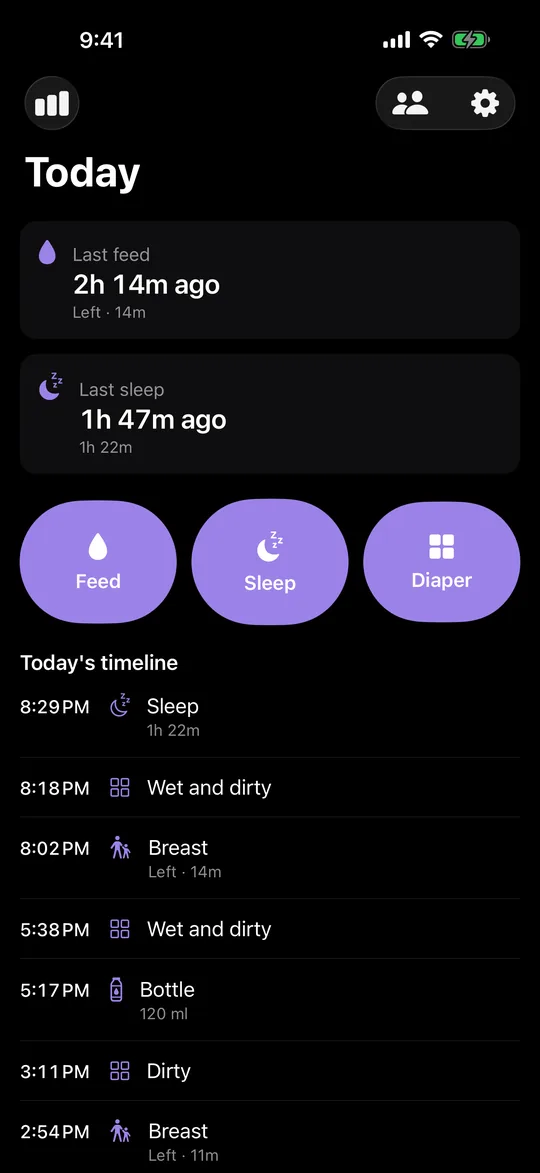
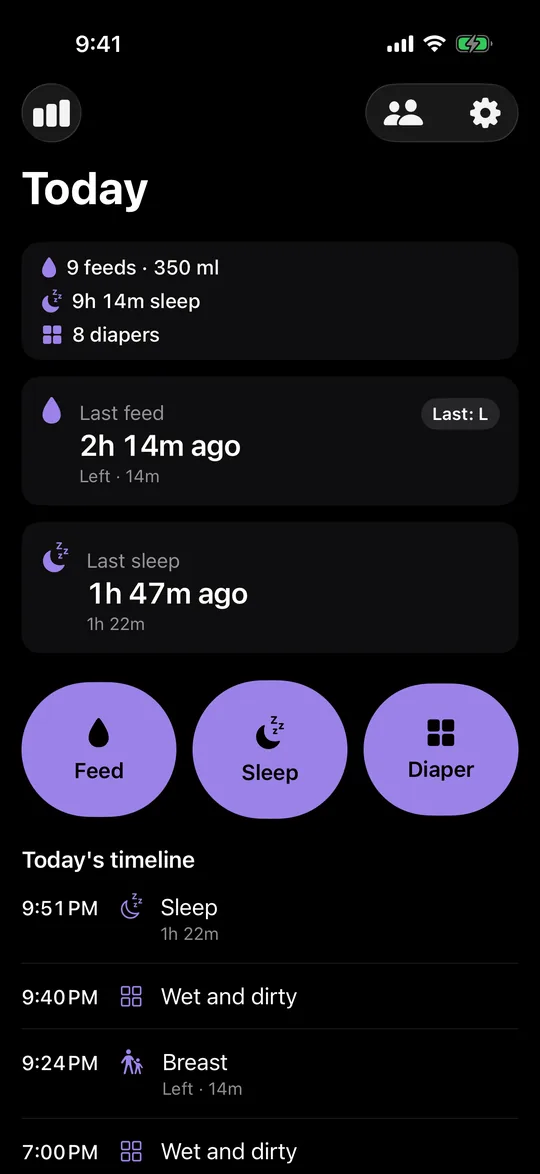
1.0.1: lock-screen timer row, today totals and last side, fresh home shots
Adds a feature row for the Live Activity timer with Stop (schematic CSS
card, labelled as an illustration — no lock-screen capture exists), notes
the today-totals strip, last-side badge, 5 ml steps, tap-to-type and the
5-second Undo in the existing rows, lists the lock-screen timer under Free,
and replaces the home screenshots with 1.0.1 captures. softwareVersion
1.0.1 in JSON-LD. Verified at 1280 and 390 px.

Claude-Session: https://claude.ai/code/session_01T6S6qebxYexNL2scS582CH

diff --git a/ko/index.html b/ko/index.html
@@ -52,11 +52,12 @@
       <li>오프라인 우선</li>
       <li>광고 없음</li>
       <li>회원가입 없음</li>
+      <li>잠금화면에서 정지</li>
       <li>공동양육자는 링크 하나로</li>
     </ul>
   </div>
   <div class="phone">
-    <img src="../assets/screens/ko/home.webp" srcset="../assets/screens/ko/home.webp 540w, ../assets/screens/ko/home@2x.webp 1080w" sizes="(max-width: 720px) 74vw, 272px" width="540" height="1173" fetchpriority="high" alt="밤 시간의 Lullog 오늘 화면. 마지막 수유 2시간 14분 전, 마지막 수면 카드, 수유·수면·기저귀 큰 버튼과 오늘의 타임라인이 보입니다">
+    <img src="../assets/screens/ko/home.webp" srcset="../assets/screens/ko/home.webp 540w, ../assets/screens/ko/home@2x.webp 1080w" sizes="(max-width: 720px) 74vw, 272px" width="540" height="1174" fetchpriority="high" alt="밤 시간의 Lullog 오늘 화면. 수유 9회·350 ml, 수면 9시간 14분, 기저귀 8회 오늘 합계와 왼쪽으로 먹인 마지막 수유 2시간 14분 전, 마지막 수면 카드, 수유·수면·기저귀 큰 버튼, 오늘의 기록이 보입니다">
   </div>
 </section>
 
@@ -67,6 +68,7 @@
       <h2>깜빡 잊은 수유도 두 번이면 기록돼요</h2>
       <p>수유 버튼을 누르고 모유, 분유, 유축 중 하나를 고른 뒤 저장하면 끝입니다. 아기를 재우느라 기록을 놓쳤다면 시간 휠을 돌릴 필요 없이 "10분 전", "20분 전", "30분 전"을 누르세요.</p>
       <p class="dim">모유 수유는 좌우 타이머로, 분유는 ml로 남깁니다. 수면과 기저귀도 같은 방식이에요.</p>
+      <p class="dim">분유량은 5 ml 단위로 조절하거나 숫자를 눌러 바로 입력할 수 있어요. 저장하거나 타이머를 시작한 뒤 5초 동안은 실행 취소 버튼으로 되돌릴 수 있습니다.</p>
     </div>
     <div class="phone">
       <img src="../assets/screens/ko/log.webp" srcset="../assets/screens/ko/log.webp 540w, ../assets/screens/ko/log@2x.webp 1080w" sizes="(max-width: 720px) 74vw, 272px" width="540" height="1173" loading="lazy" decoding="async" alt="수유 기록 화면. 모유·분유·유축 선택, 20분 전이 선택된 빠른 시간 선택, 수유량 120 ml">
@@ -78,11 +80,29 @@
       <p class="kicker">한눈에 확인</p>
       <h2>앱을 열지 않아도 수유텀이 보여요</h2>
       <p>잠금화면 라이브 액티비티와 홈 화면 위젯이 마지막 수유와 마지막 수면 이후 지난 시간을 보여 줍니다. 비몽사몽한 새벽에도 두 시간이 지났는지 세 시간이 지났는지 바로 알 수 있어요.</p>
+      <p>오늘 화면 맨 위에는 오늘의 수유 횟수와 ml, 수면 시간, 기저귀 횟수 합계가 한 줄로 보여요. 마지막 수유 카드에는 마지막으로 먹인 쪽이 표시되고, 다음 수유는 반대쪽이 미리 선택돼요.</p>
       <p class="dim">Lullog는 지난 시간을 보여 줄 뿐, 다음 수유 시간을 예측하거나 아기에게 무엇이 필요한지 판단하지 않습니다.</p>
     </div>
     <div class="phone small">
-      <img src="../assets/screens/ko/home.webp" srcset="../assets/screens/ko/home.webp 540w, ../assets/screens/ko/home@2x.webp 1080w" sizes="(max-width: 720px) 66vw, 224px" width="540" height="1173" loading="lazy" decoding="async" alt="마지막 수유 2시간 14분 전이 크게 표시된 오늘 화면">
+      <img src="../assets/screens/ko/home.webp" srcset="../assets/screens/ko/home.webp 540w, ../assets/screens/ko/home@2x.webp 1080w" sizes="(max-width: 720px) 66vw, 224px" width="540" height="1174" loading="lazy" decoding="async" alt="맨 위 오늘 합계 줄과 마지막: 왼쪽 표시가 붙은 마지막 수유 2시간 14분 전 카드가 보이는 오늘 화면">
     </div>
+  </section>
+
+  <section class="feature">
+    <div>
+      <p class="kicker">잠금화면</p>
+      <h2>잠금을 풀지 않고 타이머를 멈춰요</h2>
+      <p>수면이나 모유 수유 타이머가 돌아가는 동안 잠금화면 라이브 액티비티에 타이머와 정지 버튼이 보입니다. 정지를 누르면 기록이 저장돼요. Face ID나 암호를 입력할 필요도, 아기를 내려놓을 필요도 없습니다.</p>
+      <p class="dim">잠금화면 타이머는 다른 기록 기능처럼 무료이고, 최신 버전의 Lullog에 들어 있어요.</p>
+    </div>
+    <figure class="lock-demo" aria-label="잠금화면 타이머를 표현한 그림">
+      <div class="lock-card" aria-hidden="true">
+        <span class="lock-label">Lullog · 수면</span>
+        <span class="lock-time">1:07:32</span>
+        <span class="lock-stop">정지</span>
+      </div>
+      <figcaption>설명용 그림이며 실제 화면이 아닙니다</figcaption>
+    </figure>
   </section>
 
   <section class="feature" id="sharing">
@@ -133,6 +153,7 @@
         <li>오늘 화면과 타임라인</li>
         <li>홈 화면 위젯</li>
         <li>잠금화면 라이브 액티비티</li>
+        <li>잠금화면 타이머·정지</li>
         <li>공동양육자 링크 공유, 인원 제한 없음</li>
         <li>광고 없음</li>
       </ul>
@@ -192,6 +213,7 @@
     "name": "Lullog",
     "alternateName": "Lullog: 아기 수유 기록·육아일지",
     "operatingSystem": "iOS 17.0 이상",
+    "softwareVersion": "1.0.1",
     "applicationCategory": "HealthApplication",
     "inLanguage": "ko",
     "url": "https://richoh86.github.io/lullog-site/ko/",

diff --git a/index.html b/index.html
@@ -52,11 +52,12 @@
       <li>Works offline</li>
       <li>No ads</li>
       <li>No account</li>
+      <li>Stop from the lock screen</li>
       <li>One link for caregivers</li>
     </ul>
   </div>
   <div class="phone">
-    <img src="assets/screens/en/home.webp" srcset="assets/screens/en/home.webp 540w, assets/screens/en/home@2x.webp 1080w" sizes="(max-width: 720px) 74vw, 272px" width="540" height="1173" fetchpriority="high" alt="Lullog's Today screen at night: last feed 2 h 14 min ago, the last sleep, big Feed, Sleep and Diaper buttons, and today's timeline">
+    <img src="assets/screens/en/home.webp" srcset="assets/screens/en/home.webp 540w, assets/screens/en/home@2x.webp 1080w" sizes="(max-width: 720px) 74vw, 272px" width="540" height="1174" fetchpriority="high" alt="Lullog's Today screen at night: today's totals of 9 feeds, 350 ml, 9 h 14 min of sleep and 8 diapers, last feed 2 h 14 min ago on the left side, the last sleep, big Feed, Sleep and Diaper buttons, and today's timeline">
   </div>
 </section>
 
@@ -67,6 +68,7 @@
       <h2>Two taps, even if you forgot to log it</h2>
       <p>Tap Feed, choose breast, bottle or pump, and save. Fell asleep before you logged it? Pick "10 min ago", "20 min ago" or "30 min ago" instead of scrolling a time wheel.</p>
       <p class="dim">Breast feeds keep a left and right side timer. Bottle feeds take an amount in ml. Sleep and diapers work the same way.</p>
+      <p class="dim">Bottle amounts move in 5 ml steps, or tap the number to type it. For five seconds after any save or timer start, an Undo button takes it back.</p>
     </div>
     <div class="phone">
       <img src="assets/screens/en/log.webp" srcset="assets/screens/en/log.webp 540w, assets/screens/en/log@2x.webp 1080w" sizes="(max-width: 720px) 74vw, 272px" width="540" height="1173" loading="lazy" decoding="async" alt="The feed sheet with Breast, Bottle and Pump options, a quick time picker set to 20 minutes ago, and 120 ml entered">
@@ -78,11 +80,29 @@
       <p class="kicker">At a glance</p>
       <h2>See how long since the last feed without opening the app</h2>
       <p>A Live Activity on the lock screen and widgets on the home screen count up from the last feed and the last sleep. Half awake, you can tell in one look whether it has been two hours or three.</p>
+      <p>A strip at the top of the Today screen adds up today's feeds and ml, sleep and diapers. The last-feed card shows which breast side you used last, and the next feed is preselected to the other side.</p>
       <p class="dim">Lullog shows the time that has passed. It does not predict the next feed or tell you what your baby needs.</p>
     </div>
     <div class="phone small">
-      <img src="assets/screens/en/home.webp" srcset="assets/screens/en/home.webp 540w, assets/screens/en/home@2x.webp 1080w" sizes="(max-width: 720px) 66vw, 224px" width="540" height="1173" loading="lazy" decoding="async" alt="The Today screen showing a large card that reads last feed 2 h 14 min ago">
+      <img src="assets/screens/en/home.webp" srcset="assets/screens/en/home.webp 540w, assets/screens/en/home@2x.webp 1080w" sizes="(max-width: 720px) 66vw, 224px" width="540" height="1174" loading="lazy" decoding="async" alt="The Today screen with the totals strip at the top and a last feed card that reads 2 h 14 min ago with a Last: L badge">
     </div>
+  </section>
+
+  <section class="feature">
+    <div>
+      <p class="kicker">Lock screen</p>
+      <h2>Stop the timer without unlocking your phone</h2>
+      <p>When a sleep or breast-feed timer is running, it shows in the Live Activity on the lock screen with a Stop button. Tap Stop and the entry is saved, without Face ID or a passcode and without putting the baby down.</p>
+      <p class="dim">The lock screen timer is free, like all logging. It is in the latest version of Lullog.</p>
+    </div>
+    <figure class="lock-demo" aria-label="Illustration of the lock screen timer">
+      <div class="lock-card" aria-hidden="true">
+        <span class="lock-label">Lullog · Sleep</span>
+        <span class="lock-time">1:07:32</span>
+        <span class="lock-stop">Stop</span>
+      </div>
+      <figcaption>Illustration, not a screenshot</figcaption>
+    </figure>
   </section>
 
   <section class="feature" id="sharing">
@@ -133,6 +153,7 @@
         <li>Today screen and timeline</li>
         <li>Home screen widgets</li>
         <li>Lock screen Live Activity</li>
+        <li>Lock screen timer with Stop</li>
         <li>Link sharing with unlimited caregivers</li>
         <li>No ads</li>
       </ul>
@@ -189,6 +210,7 @@
       "applicationCategory": "HealthApplication",
       "applicationSubCategory": "Baby feeding, sleep and diaper log",
       "operatingSystem": "iOS 17.0 or later",
+      "softwareVersion": "1.0.1",
       "url": "https://richoh86.github.io/lullog-site/",
       "installUrl": "https://apps.apple.com/app/id6813064594",
       "downloadUrl": "https://apps.apple.com/app/id6813064594",

diff --git a/assets/site.css b/assets/site.css
@@ -110,3 +110,15 @@ html[lang="ko"] body { word-break: keep-all; overflow-wrap: anywhere; }
 .feature .phone img { border-radius: 28px; }
 /* While a lazy screenshot is still loading, show the card colour instead of the bezel black */
 .phone img { background: var(--card); }
+
+/* ---------- Lock screen timer schematic (1.0.1), added 2026-10-04 ---------- */
+.lock-demo { margin: 0 auto; width: min(320px, 100%); text-align: center; }
+.lock-card { display: grid; grid-template-columns: 1fr auto; grid-template-rows: auto auto; align-items: center;
+  gap: .25rem 1rem; text-align: left; padding: 1.1rem 1.25rem; border-radius: 1.6rem;
+  background: var(--card); border: 1px solid var(--line); box-sizing: border-box; }
+.lock-card .lock-label { grid-column: 1 / -1; color: var(--dim); font-size: .85rem; font-weight: 600; }
+.lock-card .lock-time { font: 600 2rem/1.1 ui-monospace, "SF Mono", Menlo, Consolas, monospace;
+  color: var(--ink); letter-spacing: -.01em; font-variant-numeric: tabular-nums; }
+.lock-card .lock-stop { justify-self: end; padding: .4rem 1.1rem; border-radius: 999px;
+  background: var(--accent); color: var(--card); font-weight: 700; font-size: .95rem; }
+.lock-demo figcaption { margin-top: .6rem; color: var(--dim); font-size: .8rem; }
